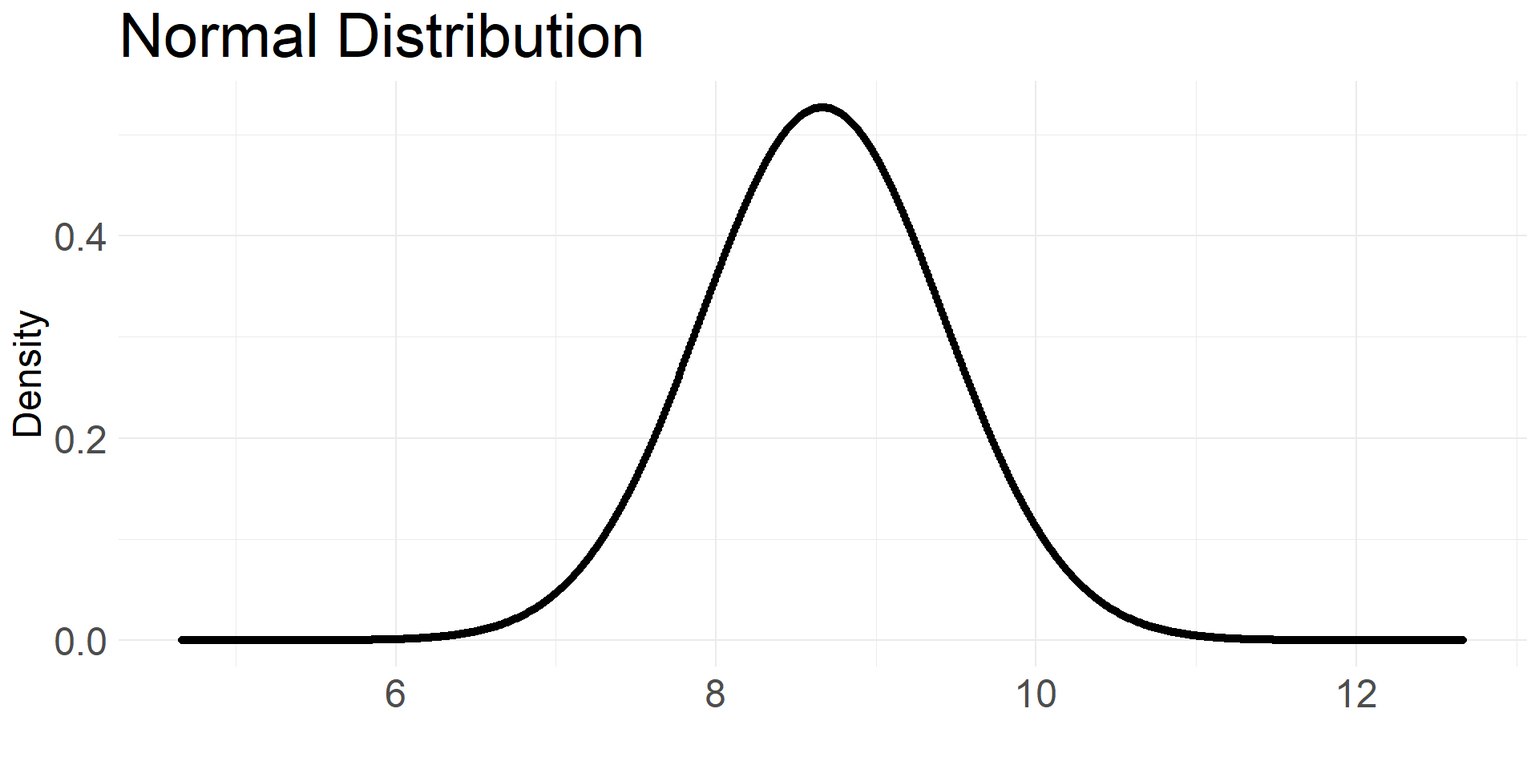
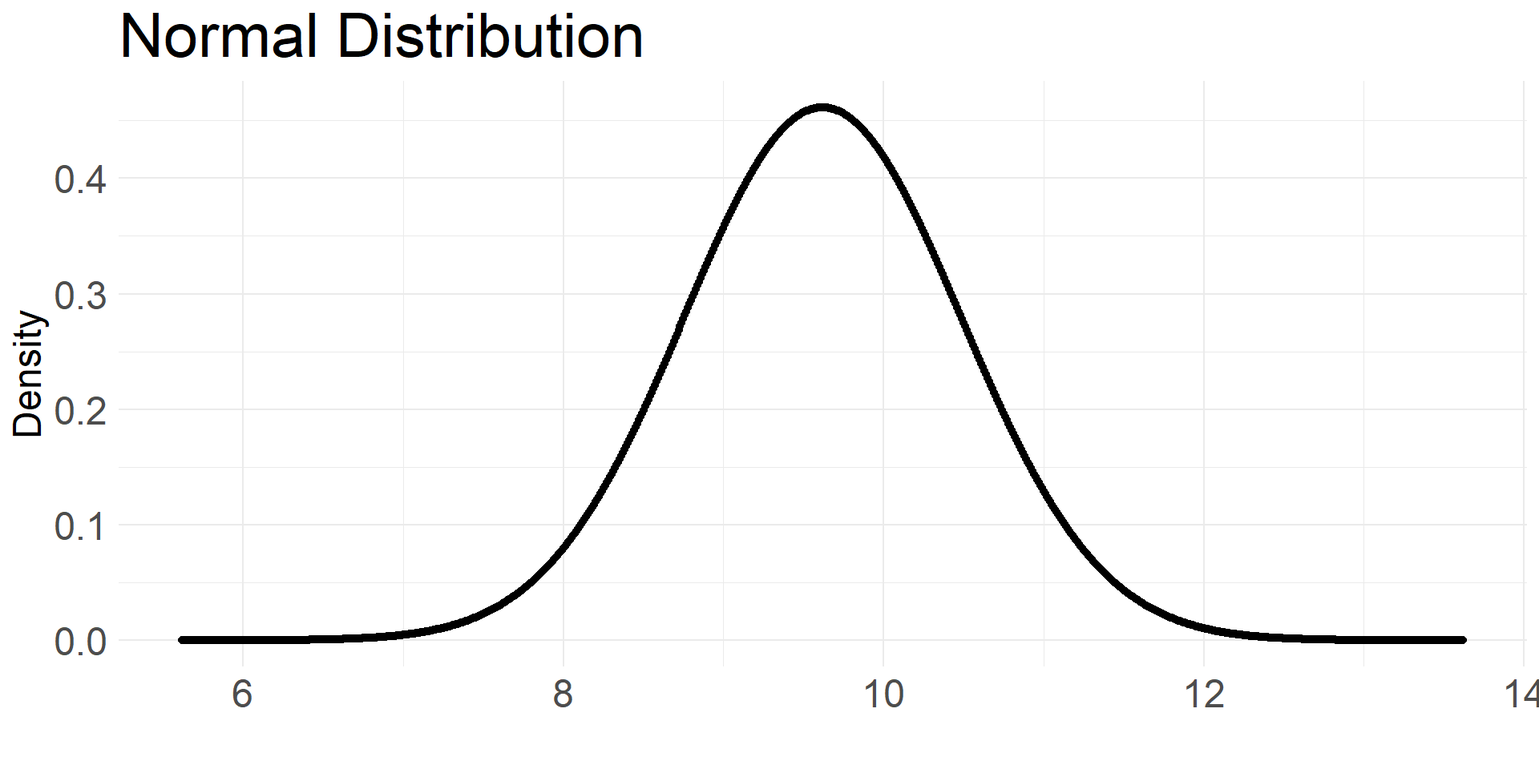
remove confusing slide

diff --git a/index.html b/index.html
@@ -11,7 +11,7 @@
   <meta name="generator" content="quarto-1.4.554">
 
   <meta name="author" content="Connor Smith">
-  <meta name="dcterms.date" content="2024-05-24">
+  <meta name="dcterms.date" content="2024-05-27">
   <title>Confidence Intervals</title>
   <meta name="apple-mobile-web-app-capable" content="yes">
   <meta name="apple-mobile-web-app-status-bar-style" content="black-translucent">
@@ -413,7 +413,7 @@ Connor Smith <a href="https://orcid.org/0000-0002-3955-4348" class="quarto-title
     </div>
 </div>
 
-  <p class="date">May 24, 2024</p>
+  <p class="date">May 27, 2024</p>
 </section>
 <section id="an-initial-guess-point-estimation" class="slide level2">
 <h2>An Initial Guess (Point Estimation)</h2>
@@ -713,12 +713,12 @@ P(\mu &lt; L(X)) + P(\mu &gt; U(X)) = \alpha
 <h2>Normal Distribution</h2>
 <h3 id="confidence-intervals-8">Confidence Intervals</h3>
 <p><span class="math display">\[
-\bar{X} \overset{approx}\sim N(8.67, 4.15^2/30)
+\bar{X} \overset{approx}\sim N(9.62, 4.74^2/30)
 \]</span></p>
 <div class="cell" data-layout-align="center">
 <details class="code-fold">
 <summary>Code</summary>
-<div class="sourceCode cell-code" id="cb5"><pre class="sourceCode numberSource r number-lines code-with-copy"><code class="sourceCode r"><span id="cb5-1"><a href=""></a>df <span class="ot">&lt;-</span> <span class="fu">data.frame</span>(<span class="at">xseq =</span> <span class="fu">seq</span>(<span class="fu">mean</span>(sample2_dice)<span class="sc">-</span><span class="dv">4</span>,<span class="fu">mean</span>(sample2_dice)<span class="sc">+</span><span class="dv">4</span>,.<span class="dv">01</span>), <span class="at">densities =</span> <span class="fu">dnorm</span>(<span class="fu">seq</span>(<span class="fu">mean</span>(sample2_dice)<span class="sc">-</span><span class="dv">4</span>,<span class="fu">mean</span>(sample2_dice)<span class="sc">+</span><span class="dv">4</span>,.<span class="dv">01</span>), <span class="fu">mean</span>(sample2_dice) , <span class="fu">sd</span>(sample2_dice)<span class="sc">/</span><span class="fu">sqrt</span>(<span class="dv">30</span>)))</span>
+<div class="sourceCode cell-code" id="cb5"><pre class="sourceCode numberSource r number-lines code-with-copy"><code class="sourceCode r"><span id="cb5-1"><a href=""></a>df <span class="ot">&lt;-</span> <span class="fu">data.frame</span>(<span class="at">xseq =</span> <span class="fu">seq</span>(<span class="fu">mean</span>(dice)<span class="sc">-</span><span class="dv">4</span>,<span class="fu">mean</span>(dice)<span class="sc">+</span><span class="dv">4</span>,.<span class="dv">01</span>), <span class="at">densities =</span> <span class="fu">dnorm</span>(<span class="fu">seq</span>(<span class="fu">mean</span>(dice)<span class="sc">-</span><span class="dv">4</span>,<span class="fu">mean</span>(dice)<span class="sc">+</span><span class="dv">4</span>,.<span class="dv">01</span>), <span class="fu">mean</span>(dice) , <span class="fu">sd</span>(dice)<span class="sc">/</span><span class="fu">sqrt</span>(<span class="dv">30</span>)))</span>
 <span id="cb5-2"><a href=""></a><span class="fu">ggplot</span>(<span class="at">data =</span> df, <span class="fu">aes</span>(<span class="at">x =</span> xseq, <span class="at">y =</span> densities)) <span class="sc">+</span></span>
 <span id="cb5-3"><a href=""></a> <span class="fu">geom_point</span>() <span class="sc">+</span> <span class="fu">labs</span>(<span class="at">title =</span> <span class="st">"Normal Distribution"</span>, <span class="at">x =</span> <span class="st">""</span>, <span class="at">y =</span> <span class="st">"Density"</span>) <span class="sc">+</span> <span class="fu">theme_minimal</span>() <span class="sc">+</span> <span class="fu">theme</span>(</span>
 <span id="cb5-4"><a href=""></a><span class="at">axis.text =</span> <span class="fu">element_text</span>(<span class="at">size =</span> <span class="dv">18</span>),</span>
@@ -728,137 +728,97 @@ P(\mu &lt; L(X)) + P(\mu &gt; U(X)) = \alpha
 
 </div>
 <img data-src="index_files/figure-revealjs/unnamed-chunk-8-1.png" class="quarto-figure quarto-figure-center r-stretch" width="960"></section>
-<section id="checking-our-confidence-interval" class="slide level2">
-<h2>Checking our Confidence interval</h2>
-<h3 id="confidence-intervals-9">Confidence Intervals</h3>
-<div class="columns">
-<div class="column" style="width:50%;">
-<p><span class="math display">\[\begin{align}
-P(\bar{X} &lt; L(x)) &amp; = P(\bar{X} &lt; 7.12)\\
-&amp; = 0.025
-\end{align}\]</span></p>
-<div class="cell">
-<div class="sourceCode cell-code" id="cb6"><pre class="sourceCode numberSource r number-lines code-with-copy"><code class="sourceCode r"><span id="cb6-1"><a href=""></a><span class="fu">pnorm</span>(<span class="fl">7.12</span>, <span class="fl">8.67</span>, <span class="fl">4.15</span><span class="sc">/</span><span class="fu">sqrt</span>(<span class="dv">30</span>))</span></code><button title="Copy to Clipboard" class="code-copy-button"><i class="bi"></i></button></pre></div>
-<div class="cell-output cell-output-stdout">
-<pre><code>[1] 0.02039242</code></pre>
-</div>
-</div>
-</div><div class="column" style="width:50%;">
-<p><span class="math display">\[\begin{align}
-P(\bar{X} &gt; U(x)) &amp; = P(\bar{X} &gt; 10.22)\\
-&amp; = 0.025
-\end{align}\]</span></p>
-<div class="cell">
-<div class="sourceCode cell-code" id="cb8"><pre class="sourceCode numberSource r number-lines code-with-copy"><code class="sourceCode r"><span id="cb8-1"><a href=""></a><span class="dv">1</span> <span class="sc">-</span> <span class="fu">pnorm</span>(<span class="fl">10.22</span>, <span class="fl">8.67</span>, <span class="fl">4.15</span><span class="sc">/</span><span class="fu">sqrt</span>(<span class="dv">30</span>))</span></code><button title="Copy to Clipboard" class="code-copy-button"><i class="bi"></i></button></pre></div>
-<div class="cell-output cell-output-stdout">
-<pre><code>[1] 0.02039242</code></pre>
-</div>
-</div>
-</div>
-</div>
-<p><span class="math display">\[\begin{align}
-P(L(x) &lt; \bar{X} &lt; U(x)) &amp; = P(7.12 &lt; \bar{X} &lt; 10.22)\\
-&amp; = 1 - P(\bar{X} &lt; 7.12) - P(\bar{X} &gt; 10.22)\\
-&amp; = 0.95
-\end{align}\]</span></p>
-<div class="cell">
-<div class="sourceCode cell-code" id="cb10"><pre class="sourceCode numberSource r number-lines code-with-copy"><code class="sourceCode r"><span id="cb10-1"><a href=""></a><span class="dv">1</span> <span class="sc">-</span> <span class="fu">pnorm</span>(<span class="fl">7.12</span>, <span class="fl">8.67</span>, <span class="fl">4.15</span><span class="sc">/</span><span class="fu">sqrt</span>(<span class="dv">30</span>)) <span class="sc">-</span> (<span class="dv">1</span> <span class="sc">-</span> <span class="fu">pnorm</span>(<span class="fl">10.22</span>, <span class="fl">8.67</span>, <span class="fl">4.15</span><span class="sc">/</span><span class="fu">sqrt</span>(<span class="dv">30</span>)))</span></code><button title="Copy to Clipboard" class="code-copy-button"><i class="bi"></i></button></pre></div>
-<div class="cell-output cell-output-stdout">
-<pre><code>[1] 0.9592152</code></pre>
-</div>
-</div>
-</section>
 <section id="confidence-intervals-interactive" class="slide level2">
 <h2>Confidence Intervals (Interactive)</h2>
 <h3 id="observablehq.commattiasvillaniconfidence-interval-for-a-mean">observablehq.com/<span class="citation" data-cites="mattiasvillani/confidence-interval-for-a-mean">@mattiasvillani/confidence-interval-for-a-mean</span></h3>
 <div class="cell">
-<div class="sourceCode cell-code hidden" id="cb12" data-startfrom="343" data-source-offset="-0"><pre class="sourceCode numberSource js number-lines code-with-copy"><code class="sourceCode javascript" style="counter-reset: source-line 342;"><span id="cb12-343"><a href=""></a>textinfo <span class="op">=</span> <span class="fu">md</span><span class="vs">`</span></span>
-<span id="cb12-344"><a href=""></a><span class="vs">Out of a total of </span><span class="sc">${</span>nrep<span class="sc">}</span><span class="vs"> samples, </span><span class="sc">${</span>d3<span class="op">.</span><span class="fu">sum</span>(data<span class="op">.</span><span class="fu">map</span>(d <span class="kw">=&gt;</span> d<span class="op">.</span><span class="at">rep</span> <span class="op">&lt;=</span> nrep <span class="op">&amp;&amp;</span> (mu <span class="op">&gt;=</span> d<span class="op">.</span><span class="at">lower</span> <span class="op">&amp;&amp;</span> mu <span class="op">&lt;=</span> d<span class="op">.</span><span class="at">upper</span>)))<span class="sc">}</span><span class="vs"> (**&lt;span style="color:red"&gt;</span><span class="sc">${</span>(d3<span class="op">.</span><span class="fu">sum</span>(data<span class="op">.</span><span class="fu">map</span>(d <span class="kw">=&gt;</span> d<span class="op">.</span><span class="at">rep</span> <span class="op">&lt;=</span> nrep <span class="op">&amp;&amp;</span> (mu <span class="op">&gt;=</span> d<span class="op">.</span><span class="at">lower</span> <span class="op">&amp;&amp;</span> mu <span class="op">&lt;=</span> d<span class="op">.</span><span class="at">upper</span>)))<span class="op">*</span><span class="dv">100</span><span class="op">/</span>nrep)<span class="op">.</span><span class="fu">toFixed</span>(<span class="dv">3</span>)<span class="sc">}</span><span class="vs">%&lt;/span&gt;**) of the </span><span class="sc">${</span>confidence<span class="sc">}</span><span class="vs">% confidence intervals contained the true population mean </span><span class="sc">${</span><span class="fu">tex</span><span class="vs">`</span><span class="sc">\m</span><span class="vs">u= `</span><span class="sc">}</span><span class="vs"> </span><span class="sc">${</span>mu<span class="sc">}</span><span class="vs">.</span></span>
-<span id="cb12-345"><a href=""></a><span class="vs">`</span></span>
-<span id="cb12-346"><a href=""></a></span>
-<span id="cb12-347"><a href=""></a>viewof nrep <span class="op">=</span> <span class="fu">Scrubber</span>(d3<span class="op">.</span><span class="fu">ticks</span>(<span class="dv">1</span><span class="op">,</span> <span class="dv">1000</span><span class="op">,</span> <span class="dv">1000</span>)<span class="op">,</span> {</span>
-<span id="cb12-348"><a href=""></a>  <span class="dt">autoplay</span><span class="op">:</span> <span class="kw">false</span><span class="op">,</span></span>
-<span id="cb12-349"><a href=""></a>  <span class="dt">loop</span><span class="op">:</span> <span class="kw">false</span><span class="op">,</span></span>
-<span id="cb12-350"><a href=""></a>  <span class="dt">initial</span><span class="op">:</span> <span class="dv">1</span><span class="op">,</span></span>
-<span id="cb12-351"><a href=""></a>  <span class="dt">delay</span><span class="op">:</span> <span class="dv">500</span><span class="op">,</span></span>
-<span id="cb12-352"><a href=""></a>  <span class="dt">format</span><span class="op">:</span> x <span class="kw">=&gt;</span> <span class="vs">`Number of repeats = </span><span class="sc">${</span>x<span class="op">.</span><span class="fu">toFixed</span>(<span class="dv">0</span>)<span class="sc">}</span><span class="vs">`</span></span>
-<span id="cb12-353"><a href=""></a>})</span>
-<span id="cb12-354"><a href=""></a></span>
-<span id="cb12-355"><a href=""></a>plt <span class="op">=</span> Plot<span class="op">.</span><span class="fu">plot</span>({</span>
-<span id="cb12-356"><a href=""></a>  <span class="dt">style</span><span class="op">:</span> {<span class="dt">fontSize</span><span class="op">:</span> <span class="st">"12px"</span>}<span class="op">,</span></span>
-<span id="cb12-357"><a href=""></a>  <span class="dt">width</span><span class="op">:</span> <span class="dv">960</span><span class="op">,</span></span>
-<span id="cb12-358"><a href=""></a>  <span class="dt">y</span><span class="op">:</span> {</span>
-<span id="cb12-359"><a href=""></a>    <span class="dt">label</span><span class="op">:</span> <span class="st">"Mean"</span><span class="op">,</span></span>
-<span id="cb12-360"><a href=""></a>    <span class="dt">domain</span><span class="op">:</span> lockvertical <span class="op">?</span> [mu<span class="op">-</span> <span class="dv">3</span><span class="op">,</span> mu <span class="op">+</span> <span class="dv">3</span>] <span class="op">:</span> [mu <span class="op">-</span> <span class="dv">5</span><span class="op">*</span>sigma<span class="op">/</span><span class="bu">Math</span><span class="op">.</span><span class="fu">sqrt</span>(nobs)<span class="op">,</span>mu <span class="op">+</span> <span class="dv">5</span><span class="op">*</span>sigma<span class="op">/</span><span class="bu">Math</span><span class="op">.</span><span class="fu">sqrt</span>(nobs)]</span>
-<span id="cb12-361"><a href=""></a>  }<span class="op">,</span></span>
-<span id="cb12-362"><a href=""></a>  <span class="dt">x</span><span class="op">:</span> {</span>
-<span id="cb12-363"><a href=""></a>    <span class="dt">label</span><span class="op">:</span> <span class="st">"Sample Number"</span><span class="op">,</span></span>
-<span id="cb12-364"><a href=""></a>    <span class="dt">domain</span><span class="op">:</span>  [<span class="dv">0</span><span class="op">,</span> nrep]</span>
-<span id="cb12-365"><a href=""></a>  }<span class="op">,</span></span>
-<span id="cb12-366"><a href=""></a>  <span class="dt">marks</span><span class="op">:</span> [</span>
-<span id="cb12-367"><a href=""></a>    Plot<span class="op">.</span><span class="fu">ruleX</span>([<span class="dv">0</span>])<span class="op">,</span>    </span>
-<span id="cb12-368"><a href=""></a>    Plot<span class="op">.</span><span class="fu">ruleX</span>(data<span class="op">,</span> {</span>
-<span id="cb12-369"><a href=""></a>      <span class="dt">filter</span><span class="op">:</span> d <span class="kw">=&gt;</span> (d<span class="op">.</span><span class="at">rep</span> <span class="op">&lt;=</span> nrep <span class="op">&amp;&amp;</span> mu <span class="op">&gt;=</span> d<span class="op">.</span><span class="at">lower</span> <span class="op">&amp;&amp;</span> mu <span class="op">&lt;=</span> d<span class="op">.</span><span class="at">upper</span>)<span class="op">,</span></span>
-<span id="cb12-370"><a href=""></a>      <span class="dt">x</span><span class="op">:</span> <span class="st">"rep"</span><span class="op">,</span></span>
-<span id="cb12-371"><a href=""></a>      <span class="dt">y1</span><span class="op">:</span> <span class="st">"lower"</span><span class="op">,</span></span>
-<span id="cb12-372"><a href=""></a>      <span class="dt">y2</span><span class="op">:</span> <span class="st">"upper"</span><span class="op">,</span>  </span>
-<span id="cb12-373"><a href=""></a>      <span class="dt">stroke</span><span class="op">:</span> <span class="st">"#107895"</span><span class="op">,</span></span>
-<span id="cb12-374"><a href=""></a>      <span class="dt">strokeWidth</span><span class="op">:</span> <span class="fl">1.5</span></span>
-<span id="cb12-375"><a href=""></a>    })<span class="op">,</span></span>
-<span id="cb12-376"><a href=""></a>    Plot<span class="op">.</span><span class="fu">dot</span>(data<span class="op">,</span> {<span class="dt">filter</span><span class="op">:</span> d <span class="kw">=&gt;</span> (d<span class="op">.</span><span class="at">rep</span> <span class="op">&lt;=</span> nrep <span class="op">&amp;&amp;</span> mu <span class="op">&gt;=</span> d<span class="op">.</span><span class="at">lower</span> <span class="op">&amp;&amp;</span> mu <span class="op">&lt;=</span> d<span class="op">.</span><span class="at">upper</span>)<span class="op">,</span> <span class="dt">x</span><span class="op">:</span> <span class="st">"rep"</span><span class="op">,</span> <span class="dt">y</span><span class="op">:</span> <span class="st">"xbar"</span><span class="op">,</span> <span class="dt">fill</span><span class="op">:</span> <span class="st">"#107895"</span><span class="op">,</span> <span class="dt">r</span><span class="op">:</span> <span class="dv">3</span>})<span class="op">,</span></span>
-<span id="cb12-377"><a href=""></a></span>
-<span id="cb12-378"><a href=""></a>    Plot<span class="op">.</span><span class="fu">ruleX</span>(data<span class="op">,</span> {</span>
-<span id="cb12-379"><a href=""></a>      <span class="dt">filter</span><span class="op">:</span> d <span class="kw">=&gt;</span> d<span class="op">.</span><span class="at">rep</span> <span class="op">&lt;=</span> nrep <span class="op">&amp;&amp;</span> (mu <span class="op">&lt;</span> d<span class="op">.</span><span class="at">lower</span> <span class="op">||</span> mu <span class="op">&gt;</span> d<span class="op">.</span><span class="at">upper</span>)<span class="op">,</span></span>
-<span id="cb12-380"><a href=""></a>      <span class="dt">x</span><span class="op">:</span> <span class="st">"rep"</span><span class="op">,</span></span>
-<span id="cb12-381"><a href=""></a>      <span class="dt">y1</span><span class="op">:</span> <span class="st">"lower"</span><span class="op">,</span></span>
-<span id="cb12-382"><a href=""></a>      <span class="dt">y2</span><span class="op">:</span> <span class="st">"upper"</span><span class="op">,</span>  </span>
-<span id="cb12-383"><a href=""></a>      <span class="dt">stroke</span><span class="op">:</span> <span class="st">"red"</span><span class="op">,</span></span>
-<span id="cb12-384"><a href=""></a>      <span class="dt">strokeWidth</span><span class="op">:</span> <span class="fl">1.5</span></span>
-<span id="cb12-385"><a href=""></a>    })<span class="op">,</span></span>
-<span id="cb12-386"><a href=""></a>    Plot<span class="op">.</span><span class="fu">dot</span>(data<span class="op">,</span> {<span class="dt">filter</span><span class="op">:</span> d <span class="kw">=&gt;</span> d<span class="op">.</span><span class="at">rep</span> <span class="op">&lt;=</span> nrep <span class="op">&amp;&amp;</span> (mu <span class="op">&lt;</span> d<span class="op">.</span><span class="at">lower</span> <span class="op">||</span> mu <span class="op">&gt;</span> d<span class="op">.</span><span class="at">upper</span>)<span class="op">,</span> <span class="dt">x</span><span class="op">:</span> <span class="st">"rep"</span><span class="op">,</span> <span class="dt">y</span><span class="op">:</span> <span class="st">"xbar"</span><span class="op">,</span> <span class="dt">fill</span><span class="op">:</span> <span class="st">"red"</span><span class="op">,</span> <span class="dt">r</span><span class="op">:</span> <span class="dv">3</span>})<span class="op">,</span></span>
-<span id="cb12-387"><a href=""></a>    Plot<span class="op">.</span><span class="fu">ruleY</span>([mu]<span class="op">,</span> {<span class="dt">stroke</span><span class="op">:</span> <span class="st">"black"</span><span class="op">,</span> <span class="dt">strokeWidth</span><span class="op">:</span> <span class="fl">1.5</span>})</span>
-<span id="cb12-388"><a href=""></a></span>
-<span id="cb12-389"><a href=""></a>  ]</span>
-<span id="cb12-390"><a href=""></a>})</span>
-<span id="cb12-391"><a href=""></a></span>
-<span id="cb12-392"><a href=""></a>jstat <span class="op">=</span> <span class="pp">require</span>(<span class="st">'jstat'</span>)</span>
-<span id="cb12-393"><a href=""></a></span>
-<span id="cb12-394"><a href=""></a><span class="im">import</span> {Scrubber} <span class="im">from</span> <span class="st">"@mbostock/scrubber"</span></span>
-<span id="cb12-395"><a href=""></a></span>
-<span id="cb12-396"><a href=""></a><span class="kw">function</span> <span class="fu">simulate_means</span>(mu<span class="op">,</span> sigma<span class="op">,</span> nobs<span class="op">,</span> nrep){</span>
-<span id="cb12-397"><a href=""></a>  </span>
-<span id="cb12-398"><a href=""></a>  <span class="kw">const</span> tvalue <span class="op">=</span> jstat<span class="op">.</span><span class="at">studentt</span><span class="op">.</span><span class="fu">inv</span>(<span class="dv">1</span><span class="op">-</span>(<span class="dv">1</span><span class="op">-</span>(confidence<span class="op">/</span><span class="dv">100</span>))<span class="op">/</span><span class="dv">2</span><span class="op">,</span> nobs<span class="op">-</span><span class="dv">1</span>)<span class="op">;</span></span>
-<span id="cb12-399"><a href=""></a>  <span class="kw">var</span> data <span class="op">=</span> []<span class="op">;</span></span>
-<span id="cb12-400"><a href=""></a>  <span class="cf">for</span> (<span class="kw">let</span> j <span class="op">=</span> <span class="dv">1</span><span class="op">;</span> j <span class="op">&lt;=</span> nrep<span class="op">;</span> j<span class="op">++</span>){</span>
-<span id="cb12-401"><a href=""></a>        <span class="kw">let</span> sample <span class="op">=</span> d3<span class="op">.</span><span class="fu">range</span>(nobs)<span class="op">.</span><span class="fu">map</span>(d <span class="kw">=&gt;</span> d3<span class="op">.</span><span class="fu">randomNormal</span>(mu<span class="op">,</span>sigma)())</span>
-<span id="cb12-402"><a href=""></a>        <span class="kw">let</span> xbar <span class="op">=</span> d3<span class="op">.</span><span class="fu">mean</span>(sample)</span>
-<span id="cb12-403"><a href=""></a>        <span class="kw">let</span> s <span class="op">=</span> jstat<span class="op">.</span><span class="fu">stdev</span>(sample<span class="op">,</span> <span class="kw">true</span>) </span>
-<span id="cb12-404"><a href=""></a>        <span class="kw">let</span> lower <span class="op">=</span> xbar <span class="op">-</span> tvalue<span class="op">*</span>s<span class="op">/</span><span class="bu">Math</span><span class="op">.</span><span class="fu">sqrt</span>(nobs)</span>
-<span id="cb12-405"><a href=""></a>        <span class="kw">let</span> upper <span class="op">=</span> xbar <span class="op">+</span> tvalue<span class="op">*</span>s<span class="op">/</span><span class="bu">Math</span><span class="op">.</span><span class="fu">sqrt</span>(nobs)</span>
-<span id="cb12-406"><a href=""></a>        data<span class="op">.</span><span class="fu">push</span>({<span class="dt">rep</span><span class="op">:</span> j<span class="op">,</span> <span class="dt">xbar</span><span class="op">:</span> xbar<span class="op">,</span> <span class="dt">lower</span><span class="op">:</span> lower<span class="op">,</span> <span class="dt">upper</span><span class="op">:</span> upper})</span>
-<span id="cb12-407"><a href=""></a>  }</span>
-<span id="cb12-408"><a href=""></a>  <span class="cf">return</span> data</span>
-<span id="cb12-409"><a href=""></a>}</span>
-<span id="cb12-410"><a href=""></a></span>
-<span id="cb12-411"><a href=""></a>mu <span class="op">=</span> <span class="fl">9.62</span></span>
-<span id="cb12-412"><a href=""></a></span>
-<span id="cb12-413"><a href=""></a>sigma <span class="op">=</span> <span class="fl">4.737088</span></span>
-<span id="cb12-414"><a href=""></a></span>
-<span id="cb12-415"><a href=""></a>confidence <span class="op">=</span> <span class="dv">95</span></span>
-<span id="cb12-416"><a href=""></a></span>
-<span id="cb12-417"><a href=""></a>nobs <span class="op">=</span> <span class="dv">30</span></span>
-<span id="cb12-418"><a href=""></a></span>
-<span id="cb12-419"><a href=""></a>lockvertical <span class="op">=</span> <span class="kw">false</span></span>
-<span id="cb12-420"><a href=""></a></span>
-<span id="cb12-421"><a href=""></a>data <span class="op">=</span> {</span>
-<span id="cb12-422"><a href=""></a>  nobs<span class="op">;</span></span>
-<span id="cb12-423"><a href=""></a>  mu<span class="op">;</span></span>
-<span id="cb12-424"><a href=""></a>  sigma<span class="op">;</span></span>
-<span id="cb12-425"><a href=""></a>  <span class="kw">const</span> d <span class="op">=</span> <span class="kw">new</span> <span class="bu">Date</span>()<span class="op">;</span></span>
-<span id="cb12-426"><a href=""></a>  <span class="kw">let</span> time <span class="op">=</span> d<span class="op">.</span><span class="fu">getTime</span>()<span class="op">;</span></span>
-<span id="cb12-427"><a href=""></a>  <span class="kw">const</span> data <span class="op">=</span> <span class="fu">simulate_means</span>(mu<span class="op">,</span> sigma<span class="op">,</span> nobs<span class="op">,</span> <span class="dv">1000</span>)</span>
-<span id="cb12-428"><a href=""></a>  <span class="cf">return</span> data</span>
-<span id="cb12-429"><a href=""></a>}</span></code><button title="Copy to Clipboard" class="code-copy-button"><i class="bi"></i></button></pre></div>
+<div class="sourceCode cell-code hidden" id="cb6" data-startfrom="299" data-source-offset="-0"><pre class="sourceCode numberSource js number-lines code-with-copy"><code class="sourceCode javascript" style="counter-reset: source-line 298;"><span id="cb6-299"><a href=""></a>textinfo <span class="op">=</span> <span class="fu">md</span><span class="vs">`</span></span>
+<span id="cb6-300"><a href=""></a><span class="vs">Out of a total of </span><span class="sc">${</span>nrep<span class="sc">}</span><span class="vs"> samples, </span><span class="sc">${</span>d3<span class="op">.</span><span class="fu">sum</span>(data<span class="op">.</span><span class="fu">map</span>(d <span class="kw">=&gt;</span> d<span class="op">.</span><span class="at">rep</span> <span class="op">&lt;=</span> nrep <span class="op">&amp;&amp;</span> (mu <span class="op">&gt;=</span> d<span class="op">.</span><span class="at">lower</span> <span class="op">&amp;&amp;</span> mu <span class="op">&lt;=</span> d<span class="op">.</span><span class="at">upper</span>)))<span class="sc">}</span><span class="vs"> (**&lt;span style="color:red"&gt;</span><span class="sc">${</span>(d3<span class="op">.</span><span class="fu">sum</span>(data<span class="op">.</span><span class="fu">map</span>(d <span class="kw">=&gt;</span> d<span class="op">.</span><span class="at">rep</span> <span class="op">&lt;=</span> nrep <span class="op">&amp;&amp;</span> (mu <span class="op">&gt;=</span> d<span class="op">.</span><span class="at">lower</span> <span class="op">&amp;&amp;</span> mu <span class="op">&lt;=</span> d<span class="op">.</span><span class="at">upper</span>)))<span class="op">*</span><span class="dv">100</span><span class="op">/</span>nrep)<span class="op">.</span><span class="fu">toFixed</span>(<span class="dv">3</span>)<span class="sc">}</span><span class="vs">%&lt;/span&gt;**) of the </span><span class="sc">${</span>confidence<span class="sc">}</span><span class="vs">% confidence intervals contained the true population mean </span><span class="sc">${</span><span class="fu">tex</span><span class="vs">`</span><span class="sc">\m</span><span class="vs">u= `</span><span class="sc">}</span><span class="vs"> </span><span class="sc">${</span>mu<span class="sc">}</span><span class="vs">.</span></span>
+<span id="cb6-301"><a href=""></a><span class="vs">`</span></span>
+<span id="cb6-302"><a href=""></a></span>
+<span id="cb6-303"><a href=""></a>viewof nrep <span class="op">=</span> <span class="fu">Scrubber</span>(d3<span class="op">.</span><span class="fu">ticks</span>(<span class="dv">1</span><span class="op">,</span> <span class="dv">1000</span><span class="op">,</span> <span class="dv">1000</span>)<span class="op">,</span> {</span>
+<span id="cb6-304"><a href=""></a>  <span class="dt">autoplay</span><span class="op">:</span> <span class="kw">false</span><span class="op">,</span></span>
+<span id="cb6-305"><a href=""></a>  <span class="dt">loop</span><span class="op">:</span> <span class="kw">false</span><span class="op">,</span></span>
+<span id="cb6-306"><a href=""></a>  <span class="dt">initial</span><span class="op">:</span> <span class="dv">1</span><span class="op">,</span></span>
+<span id="cb6-307"><a href=""></a>  <span class="dt">delay</span><span class="op">:</span> <span class="dv">500</span><span class="op">,</span></span>
+<span id="cb6-308"><a href=""></a>  <span class="dt">format</span><span class="op">:</span> x <span class="kw">=&gt;</span> <span class="vs">`Number of repeats = </span><span class="sc">${</span>x<span class="op">.</span><span class="fu">toFixed</span>(<span class="dv">0</span>)<span class="sc">}</span><span class="vs">`</span></span>
+<span id="cb6-309"><a href=""></a>})</span>
+<span id="cb6-310"><a href=""></a></span>
+<span id="cb6-311"><a href=""></a>plt <span class="op">=</span> Plot<span class="op">.</span><span class="fu">plot</span>({</span>
+<span id="cb6-312"><a href=""></a>  <span class="dt">style</span><span class="op">:</span> {<span class="dt">fontSize</span><span class="op">:</span> <span class="st">"12px"</span>}<span class="op">,</span></span>
+<span id="cb6-313"><a href=""></a>  <span class="dt">width</span><span class="op">:</span> <span class="dv">960</span><span class="op">,</span></span>
+<span id="cb6-314"><a href=""></a>  <span class="dt">y</span><span class="op">:</span> {</span>
+<span id="cb6-315"><a href=""></a>    <span class="dt">label</span><span class="op">:</span> <span class="st">"Mean"</span><span class="op">,</span></span>
+<span id="cb6-316"><a href=""></a>    <span class="dt">domain</span><span class="op">:</span> lockvertical <span class="op">?</span> [mu<span class="op">-</span> <span class="dv">3</span><span class="op">,</span> mu <span class="op">+</span> <span class="dv">3</span>] <span class="op">:</span> [mu <span class="op">-</span> <span class="dv">5</span><span class="op">*</span>sigma<span class="op">/</span><span class="bu">Math</span><span class="op">.</span><span class="fu">sqrt</span>(nobs)<span class="op">,</span>mu <span class="op">+</span> <span class="dv">5</span><span class="op">*</span>sigma<span class="op">/</span><span class="bu">Math</span><span class="op">.</span><span class="fu">sqrt</span>(nobs)]</span>
+<span id="cb6-317"><a href=""></a>  }<span class="op">,</span></span>
+<span id="cb6-318"><a href=""></a>  <span class="dt">x</span><span class="op">:</span> {</span>
+<span id="cb6-319"><a href=""></a>    <span class="dt">label</span><span class="op">:</span> <span class="st">"Sample Number"</span><span class="op">,</span></span>
+<span id="cb6-320"><a href=""></a>    <span class="dt">domain</span><span class="op">:</span>  [<span class="dv">0</span><span class="op">,</span> nrep]</span>
+<span id="cb6-321"><a href=""></a>  }<span class="op">,</span></span>
+<span id="cb6-322"><a href=""></a>  <span class="dt">marks</span><span class="op">:</span> [</span>
+<span id="cb6-323"><a href=""></a>    Plot<span class="op">.</span><span class="fu">ruleX</span>([<span class="dv">0</span>])<span class="op">,</span>    </span>
+<span id="cb6-324"><a href=""></a>    Plot<span class="op">.</span><span class="fu">ruleX</span>(data<span class="op">,</span> {</span>
+<span id="cb6-325"><a href=""></a>      <span class="dt">filter</span><span class="op">:</span> d <span class="kw">=&gt;</span> (d<span class="op">.</span><span class="at">rep</span> <span class="op">&lt;=</span> nrep <span class="op">&amp;&amp;</span> mu <span class="op">&gt;=</span> d<span class="op">.</span><span class="at">lower</span> <span class="op">&amp;&amp;</span> mu <span class="op">&lt;=</span> d<span class="op">.</span><span class="at">upper</span>)<span class="op">,</span></span>
+<span id="cb6-326"><a href=""></a>      <span class="dt">x</span><span class="op">:</span> <span class="st">"rep"</span><span class="op">,</span></span>
+<span id="cb6-327"><a href=""></a>      <span class="dt">y1</span><span class="op">:</span> <span class="st">"lower"</span><span class="op">,</span></span>
+<span id="cb6-328"><a href=""></a>      <span class="dt">y2</span><span class="op">:</span> <span class="st">"upper"</span><span class="op">,</span>  </span>
+<span id="cb6-329"><a href=""></a>      <span class="dt">stroke</span><span class="op">:</span> <span class="st">"#107895"</span><span class="op">,</span></span>
+<span id="cb6-330"><a href=""></a>      <span class="dt">strokeWidth</span><span class="op">:</span> <span class="fl">1.5</span></span>
+<span id="cb6-331"><a href=""></a>    })<span class="op">,</span></span>
+<span id="cb6-332"><a href=""></a>    Plot<span class="op">.</span><span class="fu">dot</span>(data<span class="op">,</span> {<span class="dt">filter</span><span class="op">:</span> d <span class="kw">=&gt;</span> (d<span class="op">.</span><span class="at">rep</span> <span class="op">&lt;=</span> nrep <span class="op">&amp;&amp;</span> mu <span class="op">&gt;=</span> d<span class="op">.</span><span class="at">lower</span> <span class="op">&amp;&amp;</span> mu <span class="op">&lt;=</span> d<span class="op">.</span><span class="at">upper</span>)<span class="op">,</span> <span class="dt">x</span><span class="op">:</span> <span class="st">"rep"</span><span class="op">,</span> <span class="dt">y</span><span class="op">:</span> <span class="st">"xbar"</span><span class="op">,</span> <span class="dt">fill</span><span class="op">:</span> <span class="st">"#107895"</span><span class="op">,</span> <span class="dt">r</span><span class="op">:</span> <span class="dv">3</span>})<span class="op">,</span></span>
+<span id="cb6-333"><a href=""></a></span>
+<span id="cb6-334"><a href=""></a>    Plot<span class="op">.</span><span class="fu">ruleX</span>(data<span class="op">,</span> {</span>
+<span id="cb6-335"><a href=""></a>      <span class="dt">filter</span><span class="op">:</span> d <span class="kw">=&gt;</span> d<span class="op">.</span><span class="at">rep</span> <span class="op">&lt;=</span> nrep <span class="op">&amp;&amp;</span> (mu <span class="op">&lt;</span> d<span class="op">.</span><span class="at">lower</span> <span class="op">||</span> mu <span class="op">&gt;</span> d<span class="op">.</span><span class="at">upper</span>)<span class="op">,</span></span>
+<span id="cb6-336"><a href=""></a>      <span class="dt">x</span><span class="op">:</span> <span class="st">"rep"</span><span class="op">,</span></span>
+<span id="cb6-337"><a href=""></a>      <span class="dt">y1</span><span class="op">:</span> <span class="st">"lower"</span><span class="op">,</span></span>
+<span id="cb6-338"><a href=""></a>      <span class="dt">y2</span><span class="op">:</span> <span class="st">"upper"</span><span class="op">,</span>  </span>
+<span id="cb6-339"><a href=""></a>      <span class="dt">stroke</span><span class="op">:</span> <span class="st">"red"</span><span class="op">,</span></span>
+<span id="cb6-340"><a href=""></a>      <span class="dt">strokeWidth</span><span class="op">:</span> <span class="fl">1.5</span></span>
+<span id="cb6-341"><a href=""></a>    })<span class="op">,</span></span>
+<span id="cb6-342"><a href=""></a>    Plot<span class="op">.</span><span class="fu">dot</span>(data<span class="op">,</span> {<span class="dt">filter</span><span class="op">:</span> d <span class="kw">=&gt;</span> d<span class="op">.</span><span class="at">rep</span> <span class="op">&lt;=</span> nrep <span class="op">&amp;&amp;</span> (mu <span class="op">&lt;</span> d<span class="op">.</span><span class="at">lower</span> <span class="op">||</span> mu <span class="op">&gt;</span> d<span class="op">.</span><span class="at">upper</span>)<span class="op">,</span> <span class="dt">x</span><span class="op">:</span> <span class="st">"rep"</span><span class="op">,</span> <span class="dt">y</span><span class="op">:</span> <span class="st">"xbar"</span><span class="op">,</span> <span class="dt">fill</span><span class="op">:</span> <span class="st">"red"</span><span class="op">,</span> <span class="dt">r</span><span class="op">:</span> <span class="dv">3</span>})<span class="op">,</span></span>
+<span id="cb6-343"><a href=""></a>    Plot<span class="op">.</span><span class="fu">ruleY</span>([mu]<span class="op">,</span> {<span class="dt">stroke</span><span class="op">:</span> <span class="st">"black"</span><span class="op">,</span> <span class="dt">strokeWidth</span><span class="op">:</span> <span class="fl">1.5</span>})</span>
+<span id="cb6-344"><a href=""></a></span>
+<span id="cb6-345"><a href=""></a>  ]</span>
+<span id="cb6-346"><a href=""></a>})</span>
+<span id="cb6-347"><a href=""></a></span>
+<span id="cb6-348"><a href=""></a>jstat <span class="op">=</span> <span class="pp">require</span>(<span class="st">'jstat'</span>)</span>
+<span id="cb6-349"><a href=""></a></span>
+<span id="cb6-350"><a href=""></a><span class="im">import</span> {Scrubber} <span class="im">from</span> <span class="st">"@mbostock/scrubber"</span></span>
+<span id="cb6-351"><a href=""></a></span>
+<span id="cb6-352"><a href=""></a><span class="kw">function</span> <span class="fu">simulate_means</span>(mu<span class="op">,</span> sigma<span class="op">,</span> nobs<span class="op">,</span> nrep){</span>
+<span id="cb6-353"><a href=""></a>  </span>
+<span id="cb6-354"><a href=""></a>  <span class="kw">const</span> tvalue <span class="op">=</span> jstat<span class="op">.</span><span class="at">studentt</span><span class="op">.</span><span class="fu">inv</span>(<span class="dv">1</span><span class="op">-</span>(<span class="dv">1</span><span class="op">-</span>(confidence<span class="op">/</span><span class="dv">100</span>))<span class="op">/</span><span class="dv">2</span><span class="op">,</span> nobs<span class="op">-</span><span class="dv">1</span>)<span class="op">;</span></span>
+<span id="cb6-355"><a href=""></a>  <span class="kw">var</span> data <span class="op">=</span> []<span class="op">;</span></span>
+<span id="cb6-356"><a href=""></a>  <span class="cf">for</span> (<span class="kw">let</span> j <span class="op">=</span> <span class="dv">1</span><span class="op">;</span> j <span class="op">&lt;=</span> nrep<span class="op">;</span> j<span class="op">++</span>){</span>
+<span id="cb6-357"><a href=""></a>        <span class="kw">let</span> sample <span class="op">=</span> d3<span class="op">.</span><span class="fu">range</span>(nobs)<span class="op">.</span><span class="fu">map</span>(d <span class="kw">=&gt;</span> d3<span class="op">.</span><span class="fu">randomNormal</span>(mu<span class="op">,</span>sigma)())</span>
+<span id="cb6-358"><a href=""></a>        <span class="kw">let</span> xbar <span class="op">=</span> d3<span class="op">.</span><span class="fu">mean</span>(sample)</span>
+<span id="cb6-359"><a href=""></a>        <span class="kw">let</span> s <span class="op">=</span> jstat<span class="op">.</span><span class="fu">stdev</span>(sample<span class="op">,</span> <span class="kw">true</span>) </span>
+<span id="cb6-360"><a href=""></a>        <span class="kw">let</span> lower <span class="op">=</span> xbar <span class="op">-</span> tvalue<span class="op">*</span>s<span class="op">/</span><span class="bu">Math</span><span class="op">.</span><span class="fu">sqrt</span>(nobs)</span>
+<span id="cb6-361"><a href=""></a>        <span class="kw">let</span> upper <span class="op">=</span> xbar <span class="op">+</span> tvalue<span class="op">*</span>s<span class="op">/</span><span class="bu">Math</span><span class="op">.</span><span class="fu">sqrt</span>(nobs)</span>
+<span id="cb6-362"><a href=""></a>        data<span class="op">.</span><span class="fu">push</span>({<span class="dt">rep</span><span class="op">:</span> j<span class="op">,</span> <span class="dt">xbar</span><span class="op">:</span> xbar<span class="op">,</span> <span class="dt">lower</span><span class="op">:</span> lower<span class="op">,</span> <span class="dt">upper</span><span class="op">:</span> upper})</span>
+<span id="cb6-363"><a href=""></a>  }</span>
+<span id="cb6-364"><a href=""></a>  <span class="cf">return</span> data</span>
+<span id="cb6-365"><a href=""></a>}</span>
+<span id="cb6-366"><a href=""></a></span>
+<span id="cb6-367"><a href=""></a>mu <span class="op">=</span> <span class="fl">9.62</span></span>
+<span id="cb6-368"><a href=""></a></span>
+<span id="cb6-369"><a href=""></a>sigma <span class="op">=</span> <span class="fl">4.737088</span></span>
+<span id="cb6-370"><a href=""></a></span>
+<span id="cb6-371"><a href=""></a>confidence <span class="op">=</span> <span class="dv">95</span></span>
+<span id="cb6-372"><a href=""></a></span>
+<span id="cb6-373"><a href=""></a>nobs <span class="op">=</span> <span class="dv">30</span></span>
+<span id="cb6-374"><a href=""></a></span>
+<span id="cb6-375"><a href=""></a>lockvertical <span class="op">=</span> <span class="kw">false</span></span>
+<span id="cb6-376"><a href=""></a></span>
+<span id="cb6-377"><a href=""></a>data <span class="op">=</span> {</span>
+<span id="cb6-378"><a href=""></a>  nobs<span class="op">;</span></span>
+<span id="cb6-379"><a href=""></a>  mu<span class="op">;</span></span>
+<span id="cb6-380"><a href=""></a>  sigma<span class="op">;</span></span>
+<span id="cb6-381"><a href=""></a>  <span class="kw">const</span> d <span class="op">=</span> <span class="kw">new</span> <span class="bu">Date</span>()<span class="op">;</span></span>
+<span id="cb6-382"><a href=""></a>  <span class="kw">let</span> time <span class="op">=</span> d<span class="op">.</span><span class="fu">getTime</span>()<span class="op">;</span></span>
+<span id="cb6-383"><a href=""></a>  <span class="kw">const</span> data <span class="op">=</span> <span class="fu">simulate_means</span>(mu<span class="op">,</span> sigma<span class="op">,</span> nobs<span class="op">,</span> <span class="dv">1000</span>)</span>
+<span id="cb6-384"><a href=""></a>  <span class="cf">return</span> data</span>
+<span id="cb6-385"><a href=""></a>}</span></code><button title="Copy to Clipboard" class="code-copy-button"><i class="bi"></i></button></pre></div>
 <div class="cell-output cell-output-display">
 <div>
 <div id="ojs-cell-1-1" data-nodetype="declaration">
@@ -947,16 +907,16 @@ P(L(x) &lt; \bar{X} &lt; U(x)) &amp; = P(7.12 &lt; \bar{X} &lt; 10.22)\\
 </section>
 <section id="calculate-in-r" class="slide level2">
 <h2>Calculate in R</h2>
-<h3 id="confidence-intervals-10">Confidence Intervals</h3>
+<h3 id="confidence-intervals-9">Confidence Intervals</h3>
 <p>If you have a sample <code>X</code> you can calculate the confidence interval using the <code>t.test</code> function in R.</p>
 <div class="cell">
-<div class="sourceCode cell-code" id="cb13"><pre class="sourceCode numberSource r number-lines code-with-copy"><code class="sourceCode r"><span id="cb13-1"><a href=""></a><span class="fu">t.test</span>(X, <span class="at">conf.level =</span> <span class="fl">0.95</span>)<span class="sc">$</span>conf.int</span></code><button title="Copy to Clipboard" class="code-copy-button"><i class="bi"></i></button></pre></div>
+<div class="sourceCode cell-code" id="cb7"><pre class="sourceCode numberSource r number-lines code-with-copy"><code class="sourceCode r"><span id="cb7-1"><a href=""></a><span class="fu">t.test</span>(X, <span class="at">conf.level =</span> <span class="fl">0.95</span>)<span class="sc">$</span>conf.int</span></code><button title="Copy to Clipboard" class="code-copy-button"><i class="bi"></i></button></pre></div>
 </div>
 <p>This will return the confidence interval for the population mean <span class="math inline">\(\mu_{X}\)</span>.</p>
 </section>
 <section id="example-interpretation" class="slide level2">
 <h2>Example (Interpretation)</h2>
-<h3 id="confidence-intervals-11">Confidence Intervals</h3>
+<h3 id="confidence-intervals-10">Confidence Intervals</h3>
 <div>
 <ol type="i">
 <li class="fragment"><p>The long run proportion of confidence intervals that contain the true population parameter is <span class="math inline">\(1-\alpha\)</span> (<span class="math inline">\(0.95\)</span> if <span class="math inline">\(\alpha = 0.05\)</span>).</p></li>
@@ -969,7 +929,7 @@ P(L(x) &lt; \bar{X} &lt; U(x)) &amp; = P(7.12 &lt; \bar{X} &lt; 10.22)\\
 </section>
 <section id="other-population-parameters" class="slide level2">
 <h2>Other Population Parameters</h2>
-<h3 id="confidence-intervals-12">Confidence Intervals</h3>
+<h3 id="confidence-intervals-11">Confidence Intervals</h3>
 <p>We can also use confidence intervals to estimate other population parameters. We might also be interested in:</p>
 <ol type="i">
 <li>The population variance <span class="math inline">\(\sigma^2\)</span>,</li>
